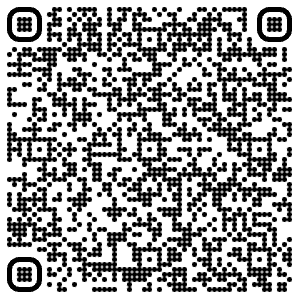
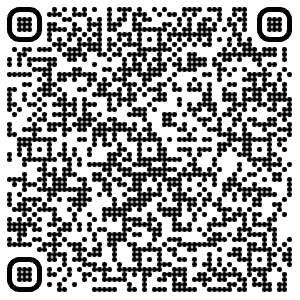
feat: fix qr-code and link in website

diff --git a/js/script.js b/js/script.js
@@ -124,8 +124,8 @@ function reply_click(clicked_id){
     document.getElementById("categorie").innerHTML = "Webdesign";
     document.getElementById("text").innerHTML = "Im Konzept & Entwurf Kurs „Hyperkontext“ ist als Projekt ein random-basierter Generator entstanden, der Inspirations(post-)karten auf der Grundlage von naturalistischen Mustern erstellt. Diese Karten sollen als Inspirationsquelle für Designer*innen dienen. Meine Motivation für dieses Projekt ist es ein eigenes Tool zu erschaffen, dass die Kreativität anregt und den Gestaltenden auf neue, interesannte Ideen bringt." + "<br>" + "<br>" +
     
-    "Die Inspiration für dieses Projekt habe ich aus der Natur gezogen. Der Titel der Karten sind lateinische Namen von Grünpflanzen und der grafische Teil der Karten basiert den Stukturen von Pflanzenblättern und natürlichen Farben.";
-    
+    "Die Inspiration für dieses Projekt habe ich aus der Natur gezogen. Der Titel der Karten sind lateinische Namen von Grünpflanzen und der grafische Teil der Karten basiert den Stukturen von Pflanzenblättern und natürlichen Farben."
+    + "<br>" + "<br>" + "<a class='social' href='https://selinaschwarz.me/inspiration-card/inspireleaf.html' target='_blank'> → Zum Webtool </a>";
     // Hier wird ein neues div-Element erstellt, in dem alle Bilder angezeigt werden sollen
     var imagesDiv = document.createElement("div");
     imagesDiv.id = "images-pub";

diff --git a/inspiration-card/inspireleaf.html b/inspiration-card/inspireleaf.html
@@ -100,7 +100,9 @@
     <br>
     <p class="modal-p save"> Viel Spaß beim gestalten. Hier kannst du sie herunterladen:</p>
     <br>
-    <img class="save" src="img/qr-code_werkschau.png" alt="">
+    <div class="justify-content-center">
+      <img class="save" src="img/qr-code_werkschau.png" alt="">
+    </div>
   </div>
 
 
